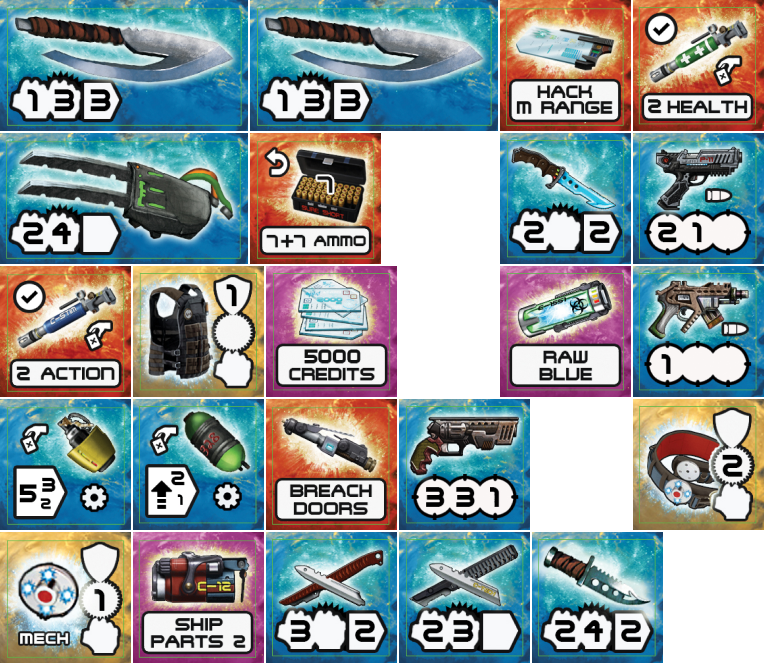
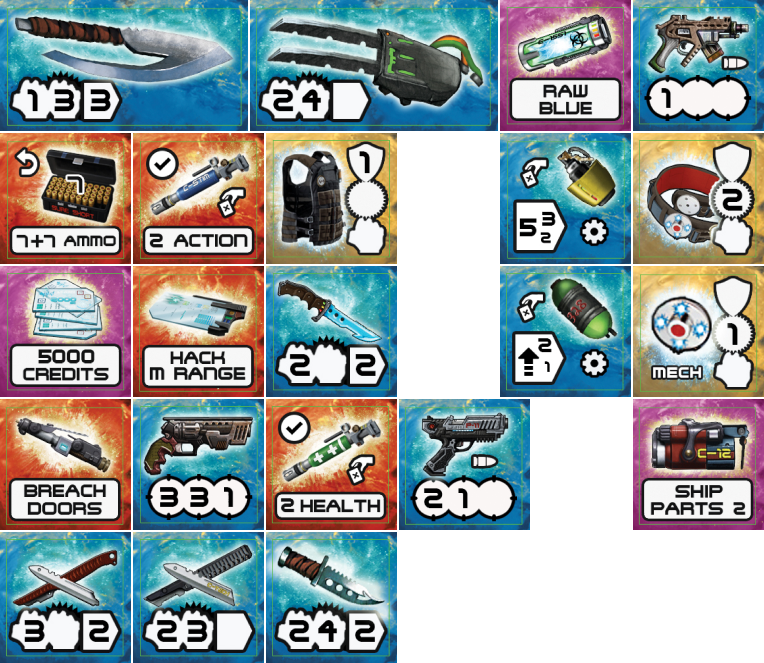
🚨 Added Galactic Corps expansions

diff --git a/src/tokens/products/galactic-corps.ts b/src/tokens/products/galactic-corps.ts
@@ -1,0 +1,123 @@
+import { TokenType } from '@/tokens/types'
+
+const tokens: TokenType[] = [
+    {
+        product: 'galactic-corps',
+        slug: 'ammo-mag',
+        name: 'Ammo mag',
+        color: 'orange',
+        size: 'sm',
+        icons: ['ammo-7', 'discard'],
+        buy: 2,
+        sell: 1,
+    },
+    {
+        product: 'galactic-corps',
+        slug: 'data-pad',
+        name: 'Data pad',
+        color: 'orange',
+        size: 'sm',
+        range: 'm',
+        description: ['hack'],
+        buy: 4,
+        sell: 2,
+    },
+    {
+        product: 'galactic-corps',
+        slug: 'energy-baton',
+        name: 'Energy baton',
+        color: 'blue',
+        size: 'sm',
+        close: 2,
+        throw: 2,
+        buy: 4,
+        sell: 2,
+    },
+    {
+        product: 'galactic-corps',
+        slug: 'energy-pistol',
+        name: 'Energy pistol',
+        color: 'blue',
+        size: 'sm',
+        short: 2,
+        medium: 2,
+        icons: ['full-charge'],
+        buy: 9,
+        sell: 4,
+    },
+    {
+        product: 'galactic-corps',
+        slug: 'grenade-emp-pulse',
+        name: 'Grenade emp pulse',
+        color: 'blue',
+        size: 'sm',
+        range: 'm',
+        icons: ['jam', 'reliable', 'discard'],
+        buy: 4,
+        sell: 1,
+    },
+    {
+        product: 'galactic-corps',
+        slug: 'grenade-time-pulse',
+        name: 'Grenade time pulse',
+        color: 'blue',
+        size: 'sm',
+        icons: ['time-pulse', 'reliable', 'discard'],
+    },
+    {
+        product: 'galactic-corps',
+        slug: 'juggernaut-riot-fist',
+        name: 'Juggernaut riot fist',
+        color: 'blue',
+        size: 'lg',
+        short: 3,
+        medium: 2,
+        close: 2,
+        icons: ['rare'],
+        sell: 10,
+    },
+    {
+        product: 'galactic-corps',
+        slug: 'jump-pack',
+        name: 'Jump pack',
+        color: 'orange',
+        size: 'sm',
+        scramble: [3, 5],
+        icons: ['effortless', 'flip'],
+        buy: 5,
+        sell: 4,
+    },
+    {
+        product: 'galactic-corps',
+        slug: 'machine-pistol',
+        name: 'Machine pistol',
+        color: 'blue',
+        size: 'sm',
+        short: 3,
+        medium: 1,
+        buy: 12,
+        sell: 6,
+    },
+    {
+        product: 'galactic-corps',
+        slug: 'medi-stim',
+        name: 'Medi stim',
+        color: 'orange',
+        size: 'sm',
+        heal: 2,
+        icons: ['effortless', 'discard'],
+    },
+    {
+        product: 'galactic-corps',
+        slug: 'military-pistol',
+        name: 'Military pistol',
+        color: 'blue',
+        size: 'sm',
+        short: 2,
+        medium: 1,
+        icons: ['burst-1'],
+        buy: 8,
+        sell: 4,
+    },
+]
+export default tokens

diff --git a/src/components/icons/JamIcon.vue b/src/components/icons/JamIcon.vue
@@ -1,0 +1,21 @@
+<script lang="ts" setup>
+import BaseIcon from '@/components/icons/BaseIcon.vue'
+</script>
+<template>
+    <BaseIcon :height="71" :scale="0.4" :width="70">
+        <path
+            d="M3.5 67V4H49L66 35L49 67H3.5Z"
+            stroke="currentColor"
+            stroke-linejoin="round"
+            stroke-width="7"
+        />
+        <path
+            d="M23.5 21.3V29.4C23.5 30.396 23.146 31.248 22.438 31.956C21.742 32.652 20.896 33 19.9 33H13.6C12.616 33 11.77 32.652 11.062 31.956C10.354 31.248 10 30.402 10 29.418V26.7H12.7V29.4C12.7 29.64 12.784 29.844 12.952 30.012C13.12 30.18 13.306 30.282 13.51 30.318C13.522 30.318 13.534 30.318 13.546 30.318C13.57 30.318 13.588 30.318 13.6 30.318L19.9 30.3C20.152 30.312 20.362 30.228 20.53 30.048C20.71 29.868 20.8 29.658 20.8 29.418V21.3H23.5ZM28.0145 28.5L27.0965 30.102V32.982H24.3965V29.346L28.0505 23.082C28.3625 22.53 28.7825 22.098 29.3105 21.786C29.8385 21.462 30.4505 21.3 31.1465 21.3C31.8545 21.3 32.4605 21.438 32.9645 21.714C33.4805 21.99 33.9185 22.452 34.2785 23.1L37.8965 29.346V32.982H35.1965V30.048L34.2965 28.5H28.0145ZM32.7305 25.8L31.9385 24.432C31.8425 24.24 31.7285 24.12 31.5965 24.072C31.4765 24.024 31.3265 24 31.1465 24C30.9905 24 30.8585 24.018 30.7505 24.054C30.6545 24.09 30.5585 24.18 30.4625 24.324C30.4505 24.348 30.4385 24.372 30.4265 24.396C30.4145 24.408 30.4025 24.426 30.3905 24.45L29.5985 25.8H32.7305ZM46.893 33H44.193V24H41.493V33H38.793V21.3H48.693C49.689 21.312 50.535 21.672 51.231 22.38C51.939 23.076 52.293 23.922 52.293 24.918V33H49.593V24.9C49.593 24.66 49.503 24.456 49.323 24.288C49.155 24.108 48.945 24.018 48.693 24.018L46.893 24V33Z"
+            fill="currentColor"
+        />
+        <path
+            d="M34.828 45.5C34.828 45.512 34.45 45.518 33.694 45.518C32.95 45.518 32.122 45.518 31.21 45.518C30.73 45.518 30.262 45.518 29.806 45.518C29.35 45.518 28.948 45.518 28.6 45.518C27.616 45.518 26.77 45.164 26.062 44.456C25.354 43.748 25 42.902 25 41.918C25 40.922 25.354 40.076 26.062 39.38C26.77 38.672 27.616 38.318 28.6 38.318L38.5 38.3V41H28.6C28.36 41.012 28.15 41.108 27.97 41.288C27.79 41.456 27.7 41.666 27.7 41.918C27.7 42.158 27.79 42.368 27.97 42.548C28.162 42.728 28.372 42.818 28.6 42.818C28.6 42.818 28.924 42.818 29.572 42.818C30.232 42.818 30.952 42.818 31.732 42.818C32.44 42.818 33.1 42.818 33.712 42.818C34.324 42.818 34.696 42.818 34.828 42.818C35.824 42.818 36.67 43.172 37.366 43.88C38.074 44.588 38.428 45.44 38.428 46.436C38.428 47.42 38.074 48.266 37.366 48.974C36.67 49.67 35.824 50.018 34.828 50.018H24.982V47.3H34.828C35.08 47.312 35.29 47.228 35.458 47.048C35.638 46.868 35.728 46.658 35.728 46.418C35.728 46.166 35.638 45.956 35.458 45.788C35.29 45.608 35.08 45.518 34.828 45.518V45.5Z"
+            fill="currentColor"
+        />
+    </BaseIcon>
+</template>

diff --git a/src/components/index.ts b/src/components/index.ts
@@ -58,6 +58,7 @@ export default {
     InfiniteIcon: () => import('@/components/icons/InfiniteIcon.vue'),
     InfraLensIcon: () => import('@/components/icons/InfraLensIcon.vue'),
     InterruptIcon: () => import('@/components/icons/InterruptIcon.vue'),
+    JamIcon: () => import('@/components/icons/JamIcon.vue'),
     KeyIcon: () => import('@/components/icons/KeyIcon.vue'),
     Manipulate3Icon: () => import('@/components/icons/Manipulate3Icon.vue'),
     MechIcon: () => import('@/components/icons/MechIcon.vue'),
@@ -97,6 +98,7 @@ export default {
     TargetLockIcon: () => import('@/components/icons/TargetLockIcon.vue'),
     TempArmourIcon: () => import('@/components/icons/TempArmourIcon.vue'),
     ThrowIcon: () => import('@/components/icons/ThrowIcon.vue'),
+    TimePulseIcon: () => import('@/components/icons/TimePulseIcon.vue'),
     TimewarpIcon: () => import('@/components/icons/TimewarpIcon.vue'),
     ToxicIcon: () => import('@/components/icons/ToxicIcon.vue'),
     TripleChargeIcon: () => import('@/components/icons/TripleChargeIcon.vue'),

diff --git a/src/stores/products.ts b/src/stores/products.ts
@@ -20,6 +20,7 @@ export const useProducts = defineStore('products', {
             [
                 'core-space',
                 'zed',
+                'galactic-corps',
                 'utility',
                 'first-born',
                 'fury',
@@ -33,6 +34,8 @@ export const useProducts = defineStore('products', {
                     'core-space':
                         'https://battlesystems.co.uk/product/core-space-starter-set/',
                     'zed': 'https://battlesystems.co.uk/product/core-space-shootout-at-zeds-expansion/',
+                    'galactic-corps':
+                        'https://battlesystems.co.uk/product/core-space-galactic-corps-expansion/',
                     'first-born':
                         'https://battlesystems.co.uk/product/core-space-first-born-starter-set/',
                     'fury': 'https://battlesystems.co.uk/product/core-space-fury-of-the-insane-god-expansion/',

diff --git a/src/components/icons/TimePulseIcon.vue b/src/components/icons/TimePulseIcon.vue
@@ -1,0 +1,17 @@
+<script lang="ts" setup>
+import BaseIcon from '@/components/icons/BaseIcon.vue'
+</script>
+<template>
+    <BaseIcon :height="71" :scale="0.4" :width="70">
+        <path
+            d="M3.5 67V4H49L66 35L49 67H3.5Z"
+            stroke="currentColor"
+            stroke-linejoin="round"
+            stroke-width="7"
+        />
+        <path
+            d="M30.5 56V46.25L23.05 53.7L20.9 51.6L30.5 42V37.5H26L16.6 46.9L14.4 44.85L21.75 37.5H12V34.5H21.75L14.25 27L16.4 24.85L26 34.5H30.5V29.95L21.1 20.55L23.2 18.35L30.5 25.7V16H33.5V25.7L41 18.2L43.1 20.35L33.5 29.95V34.5H38.05L47.5 25.05L49.65 27.15L42.3 34.5H52V37.5H42.3L49.7 44.95L47.65 47.1L38.05 37.5H33.5V42L43.1 51.65L41.05 53.8L33.5 46.25V56H30.5Z"
+            fill="currentColor"
+        />
+    </BaseIcon>
+</template>

diff --git a/src/tokens/index.ts b/src/tokens/index.ts
@@ -2,6 +2,7 @@ import { CoreSpaceToken, TokenMap, TokenType } from '@/tokens/types'
 
 import coreSpace from '@/tokens/products/core-space'
 import zed from '@/tokens/products/zed'
+import galacticCorps from '@/tokens/products/galactic-corps'
 import utility from '@/tokens/products/utility'
 
 import firstBorn from '@/tokens/products/first-born'
@@ -20,6 +21,7 @@ function toCoreSpaceToken(token: TokenType): CoreSpaceToken {
 const tokens: TokenMap = {
     'core-space': coreSpace.map(toCoreSpaceToken),
     'zed': zed.map(toCoreSpaceToken),
+    'galactic-corps': galacticCorps.map(toCoreSpaceToken),
     'first-born': firstBorn.map(toCoreSpaceToken),
     'fury': fury.map(toCoreSpaceToken),
     'line-of-fire': lineOfFire.map(toCoreSpaceToken),

diff --git a/src/tokens/types.ts b/src/tokens/types.ts
@@ -1,6 +1,7 @@
 export type ProductType =
     | 'core-space'
     | 'zed'
+    | 'galactic-corps'
     | 'first-born'
     | 'fury'
     | 'line-of-fire'
@@ -11,6 +12,7 @@ export type ProductType =
 export type TokenMap = {
     'core-space': CoreSpaceToken[]
     'zed': CoreSpaceToken[]
+    'galactic-corps': CoreSpaceToken[]
     'first-born': CoreSpaceToken[]
     'fury': CoreSpaceToken[]
     'line-of-fire': CoreSpaceToken[]
@@ -20,6 +22,8 @@ export type TokenMap = {
 }
 
 export type AttributeType =
+    | 'jam'
+    | 'time-pulse'
     | 'scatter-core'
     | 'action-2'
     | 'ammo-7'

diff --git a/src/components/forms/ProductOption.vue b/src/components/forms/ProductOption.vue
@@ -219,6 +219,10 @@ const onClickBuy = (ev: MouseEvent) => {
     background-image: var(--zed);
 }
 
+.product-option.galactic-corps figure {
+    background-image: var(--galactic-corps);
+}
+
 .product-option.first-born figure {
     background-image: var(--first-born);
 }

diff --git a/src/assets/styles/_tokens.scss b/src/assets/styles/_tokens.scss
@@ -50,6 +50,7 @@
 /* Core Space */
 @import "@/assets/generated/core-space.css";
 @import "@/assets/generated/zed.css";
+@import "@/assets/generated/galactic-corps.css";
 @import "@/assets/generated/utility.css";
 
 /* First Born */
